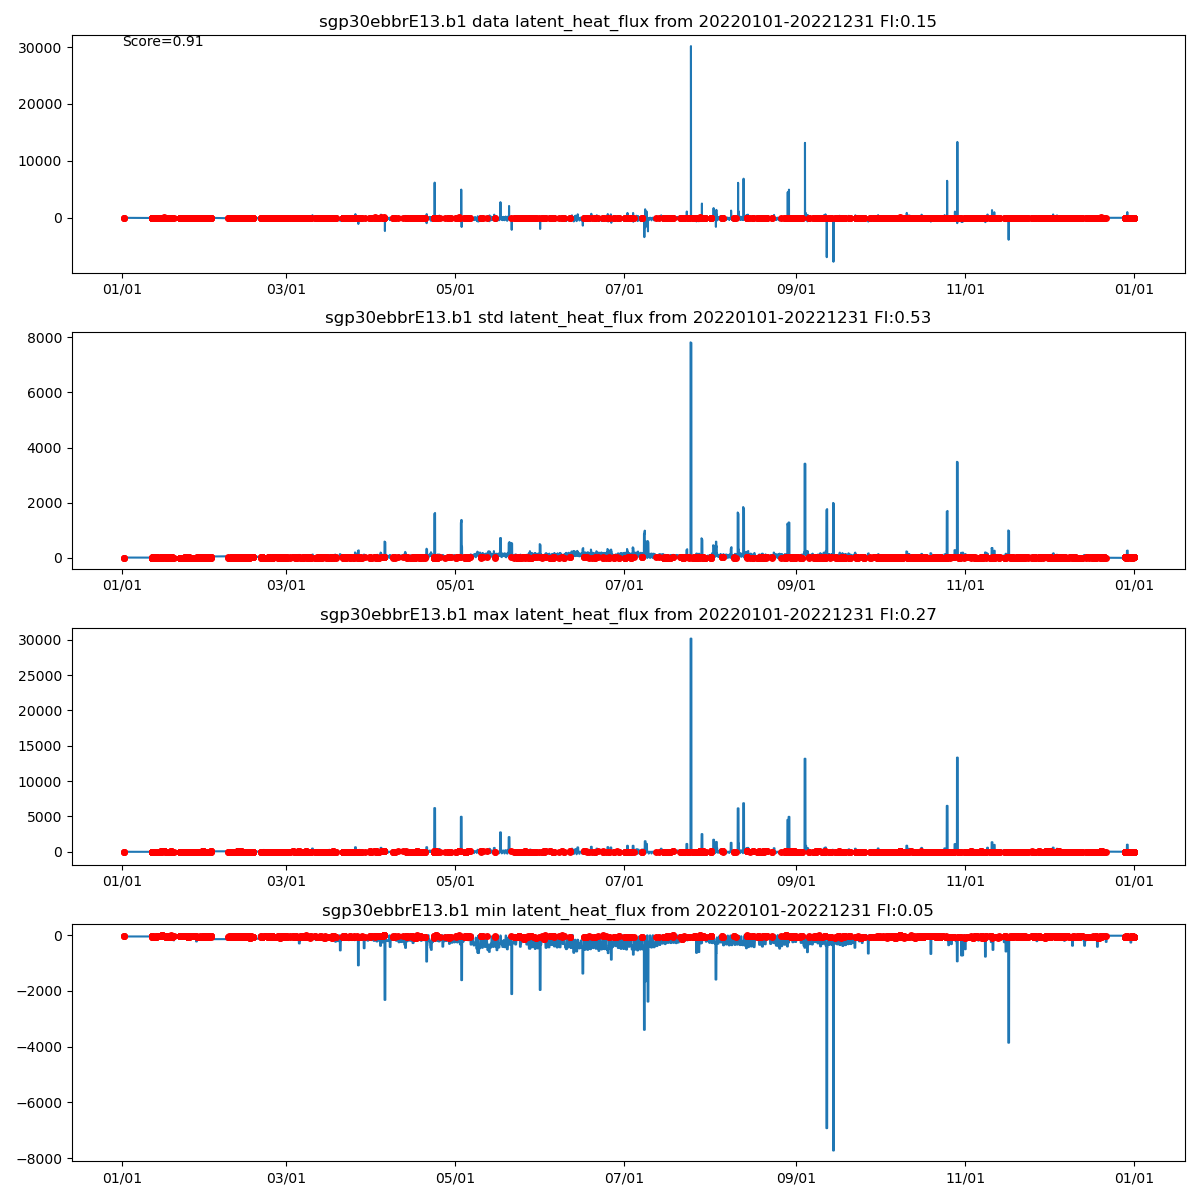
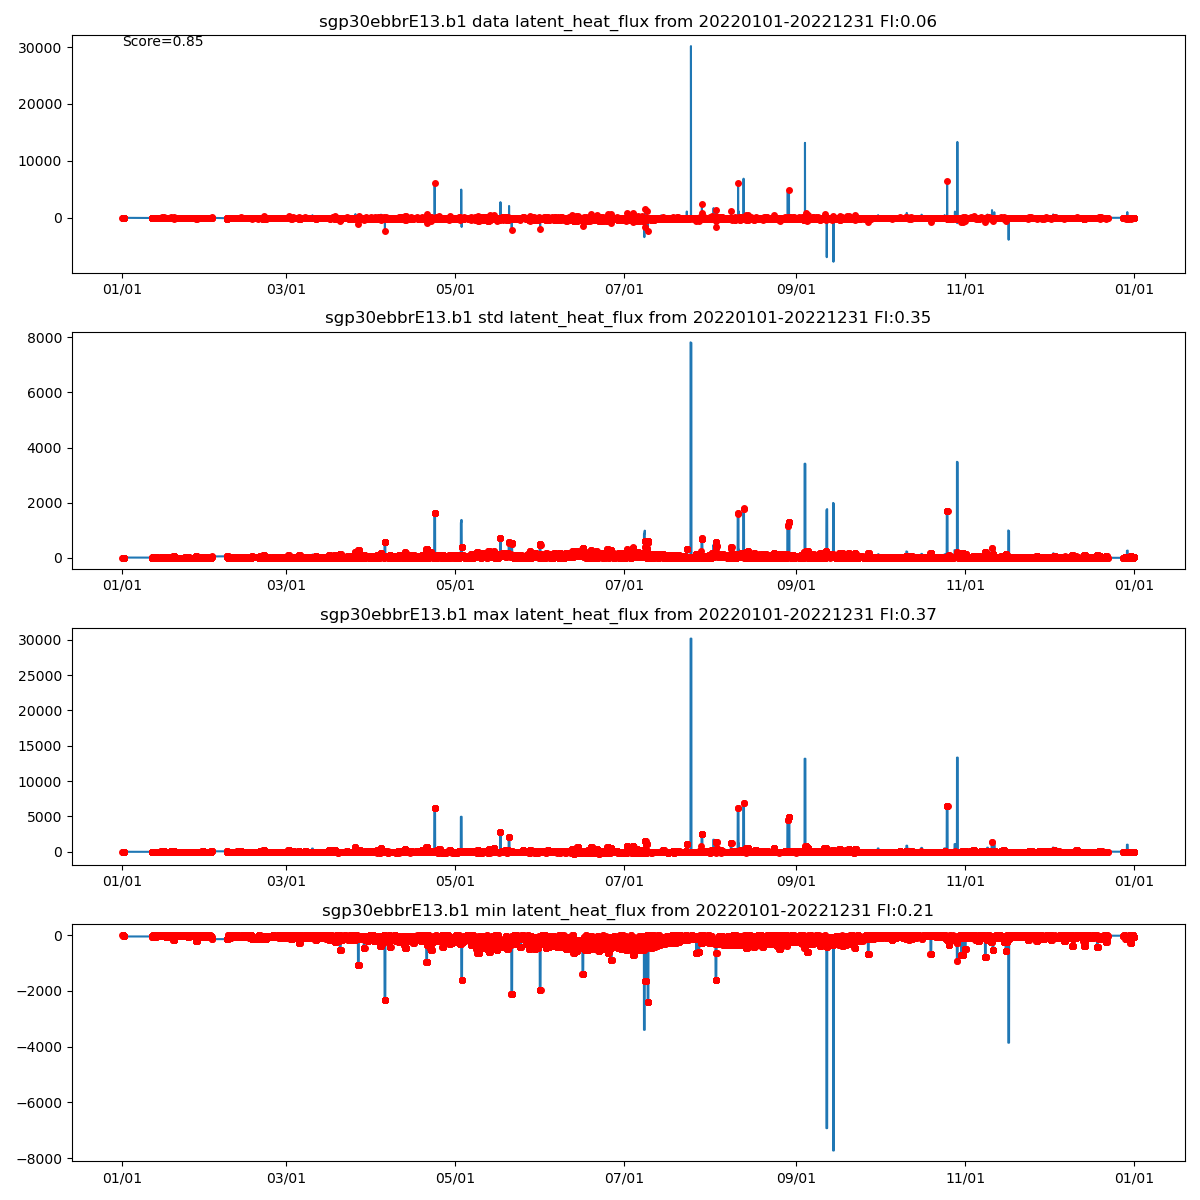
ENH: new images

diff --git a/dqr_training/dqr_ml.py b/dqr_training/dqr_ml.py
@@ -25,8 +25,8 @@ vis_edate='20221231'
 min_max=0
 n_est=25
 depth=3
-ndays=5
-max_bad=5
+ndays=10
+max_bad=10
 skip_dqrs=0
 period=15
 minp=5
